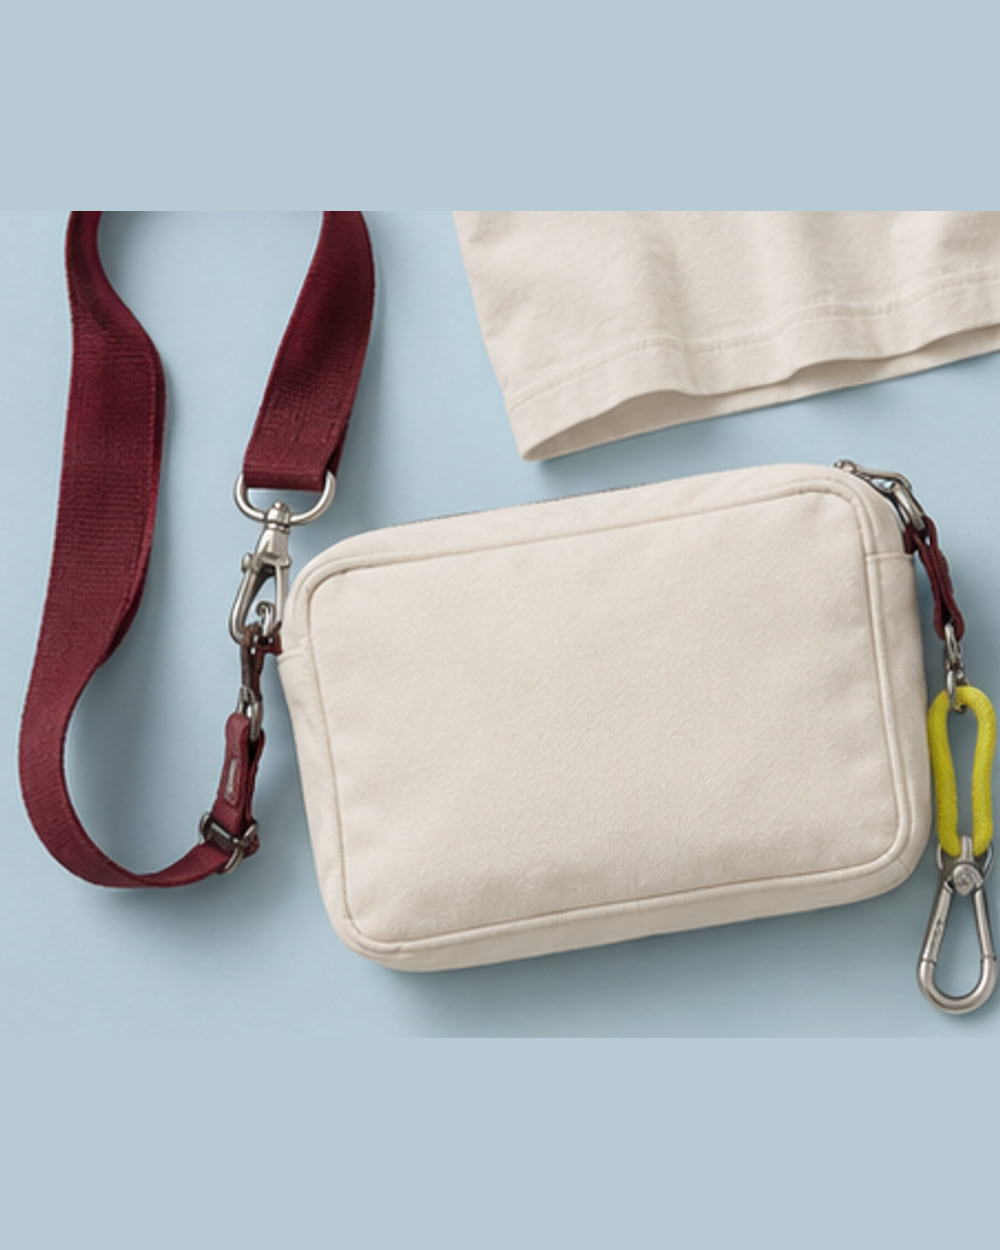
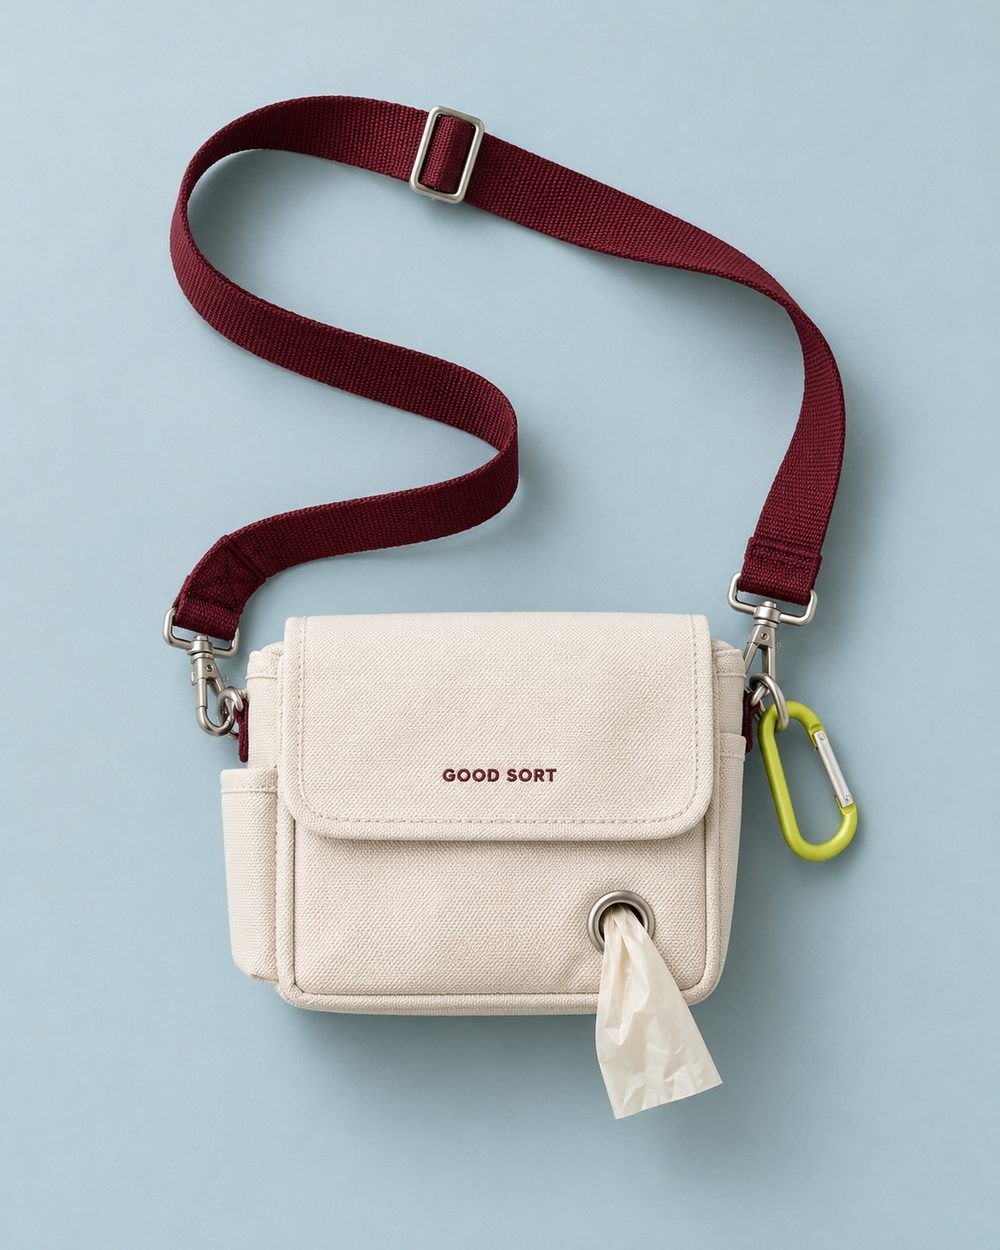
Use the photographed crossbody, and say which colourway a still shows
The new bag photograph carries the GOOD SORT flap mark, the dispenser pocket
with the bag pulling through, and the side slip pocket, so the card now shows
the piece the copy describes.

That makes the three generated bag colourways wrong twice over: they are
repaints of the previous, unbranded sample, and the repaint caught the silver
hardware along with the canvas, so the hooks and sliders came out tinted. They
are removed. The ink, oxblood and powder swatches fall back to the photographed
chalk until there is a camera, which stillFor already handles.

A still that fell back used to be labelled with the swatch rather than with
itself, so a screen reader was told "in Oxblood" over a photograph of a chalk
bag. stillAlt names the colourway the photograph actually shows.

The pass asserted that every card repaints when a swatch is chosen, which is
now false by design for a piece photographed once. It asserts instead that
repainting works somewhere in the grid.

Claude-Session: https://claude.ai/code/session_011WcL3fD8mb88LVLNfQHdBG

diff --git a/good-sort/src/lib/catalogue.ts b/good-sort/src/lib/catalogue.ts
@@ -206,12 +206,11 @@ export const PRODUCTS: Product[] = [
     images: {
       base: "chalk",
       tone: "powder",
-      stills: {
-        chalk: "/images/bag.jpg",
-        ink: "/images/bag-ink.jpg",
-        oxblood: "/images/bag-oxblood.jpg",
-        powder: "/images/bag-powder.jpg",
-      },
+      // TODO(future): the ink, oxblood and powder bags are waiting on a camera.
+      // Their generated stills were repaints of the previous, unbranded sample
+      // and tinted the hardware with the canvas, so they have been removed and
+      // those swatches fall back to the photographed chalk.
+      stills: { chalk: "/images/bag.jpg" },
       worn: { tone: "chalk", src: "/images/bag-worn.jpg" },
     },
   },
@@ -270,6 +269,19 @@ export const PRODUCTS: Product[] = [
 /** The still for a colourway, falling back to the photographed one. */
 export function stillFor(product: Product, colour: ColourKey): string | undefined {
   return product.images.stills[colour] ?? product.images.stills[product.images.base];
+}
+
+/** The colourway a still actually shows, which is the base one when it fell back. */
+export function depictedColour(product: Product, colour: ColourKey): ColourKey {
+  return product.images.stills[colour] ? colour : product.images.base;
+}
+
+/** Alt text for a still, which must describe the photograph and not the swatch. */
+export function stillAlt(product: Product, colour: ColourKey): string {
+  const shown = depictedColour(product, colour);
+  return shown === colour
+    ? `${product.name} in ${COLOURS[colour].name}`
+    : `${product.name}, photographed in ${COLOURS[shown].name}`;
 }
 
 export const PRODUCT_BY_ID: Record<string, Product> = Object.fromEntries(

diff --git a/good-sort/src/components/ShopTheWalk.tsx b/good-sort/src/components/ShopTheWalk.tsx
@@ -2,7 +2,7 @@
 
 import { useMemo, useState } from "react";
 import { useCart } from "@/lib/cart";
-import { COLOURS, PRODUCT_BY_ID, WALK_SET_IDS, stillFor, type ColourKey } from "@/lib/catalogue";
+import { COLOURS, PRODUCT_BY_ID, WALK_SET_IDS, stillAlt, stillFor, type ColourKey } from "@/lib/catalogue";
 import { formatAUD } from "@/lib/money";
 import { useUI } from "@/lib/ui";
 import { Frame } from "./Frame";
@@ -73,7 +73,7 @@ export function ShopTheWalk() {
                     tone={p.images.tone}
                     src={stillFor(p, choices[p.id].colour)}
                     sizes="(min-width: 768px) 28vw, 45vw"
-                    alt={`${p.name} in ${COLOURS[choices[p.id].colour].name}`}
+                    alt={stillAlt(p, choices[p.id].colour)}
                     fill
                     className={`transition-all duration-700 ease-[cubic-bezier(0.16,1,0.3,1)] group-hover:scale-[1.03] ${
                       on ? "" : "opacity-35 saturate-0"

diff --git a/good-sort/src/components/QuickView.tsx b/good-sort/src/components/QuickView.tsx
@@ -3,7 +3,7 @@
 import { AnimatePresence, motion } from "framer-motion";
 import { useEffect, useState } from "react";
 import { useCart } from "@/lib/cart";
-import { COLOURS, stillFor, type ColourKey, type Product } from "@/lib/catalogue";
+import { COLOURS, stillAlt, stillFor, type ColourKey, type Product } from "@/lib/catalogue";
 import { formatAUD } from "@/lib/money";
 import { useUI } from "@/lib/ui";
 import { useDialog } from "@/lib/useDialog";
@@ -51,7 +51,7 @@ function QuickViewBody({ product, initialColour }: { product: Product; initialCo
       <Frame
         tone={still ? product.images.tone : colour}
         src={still}
-        alt={`${product.name} in ${COLOURS[colour].name}`}
+        alt={stillAlt(product, colour)}
         caption={`${product.name} · ${COLOURS[colour].name}`}
         className="aspect-[4/5] max-h-[38vh] md:max-h-none md:aspect-auto md:min-h-[560px]"
         mark="lg"

diff --git a/good-sort/src/components/ProductCard.tsx b/good-sort/src/components/ProductCard.tsx
@@ -2,7 +2,7 @@
 
 import { useState } from "react";
 import { useCart } from "@/lib/cart";
-import { COLOURS, stillFor, type ColourKey, type Product } from "@/lib/catalogue";
+import { COLOURS, stillAlt, stillFor, type ColourKey, type Product } from "@/lib/catalogue";
 import { formatAUD } from "@/lib/money";
 import { useUI } from "@/lib/ui";
 import { Frame } from "./Frame";
@@ -47,7 +47,7 @@ export function ProductCard({ product, className = "" }: { product: Product; cla
             tone={still ? tone : colour}
             src={still}
             sizes="(min-width: 768px) 320px, 72vw"
-            alt={`${product.name} in ${COLOURS[colour].name}`}
+            alt={stillAlt(product, colour)}
             caption={`${product.name} · ${COLOURS[colour].name}`}
             fill
             className="transition-transform duration-[1400ms] ease-[cubic-bezier(0.16,1,0.3,1)] group-hover:scale-[1.04]"

diff --git a/good-sort/src/components/SearchOverlay.tsx b/good-sort/src/components/SearchOverlay.tsx
@@ -2,7 +2,7 @@
 
 import { AnimatePresence, motion } from "framer-motion";
 import { useState } from "react";
-import { COLOURS, PRODUCTS, stillFor, searchProducts } from "@/lib/catalogue";
+import { COLOURS, PRODUCTS, stillAlt, stillFor, searchProducts } from "@/lib/catalogue";
 import { formatAUD } from "@/lib/money";
 import { useUI } from "@/lib/ui";
 import { useDialog } from "@/lib/useDialog";
@@ -113,7 +113,7 @@ export function SearchOverlay() {
                         <Frame
                           tone={p.images.tone}
                           src={stillFor(p, p.images.base)}
-                          alt={`${p.name} in ${COLOURS[p.colours[0]].name}`}
+                          alt={stillAlt(p, p.images.base)}
                           className="aspect-[4/5] w-full"
                           mark="lg"
                         />
